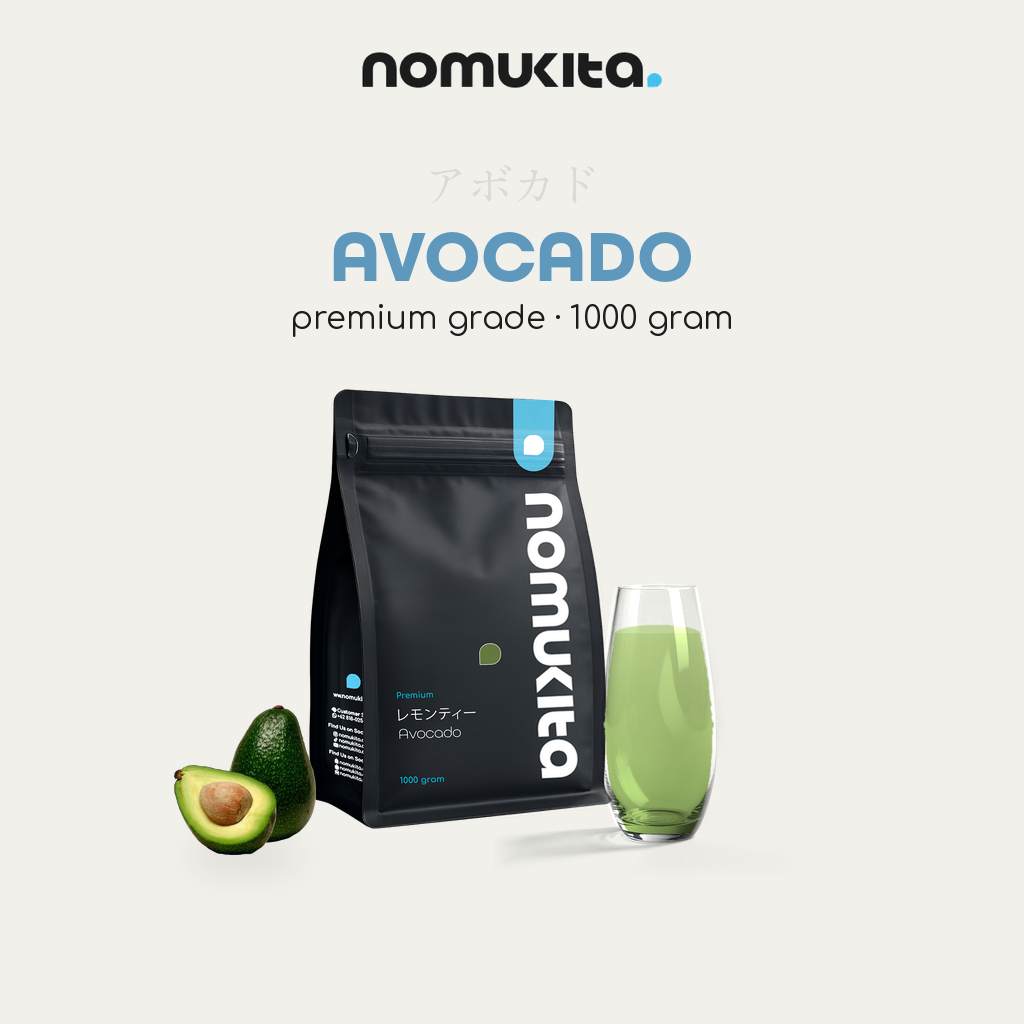
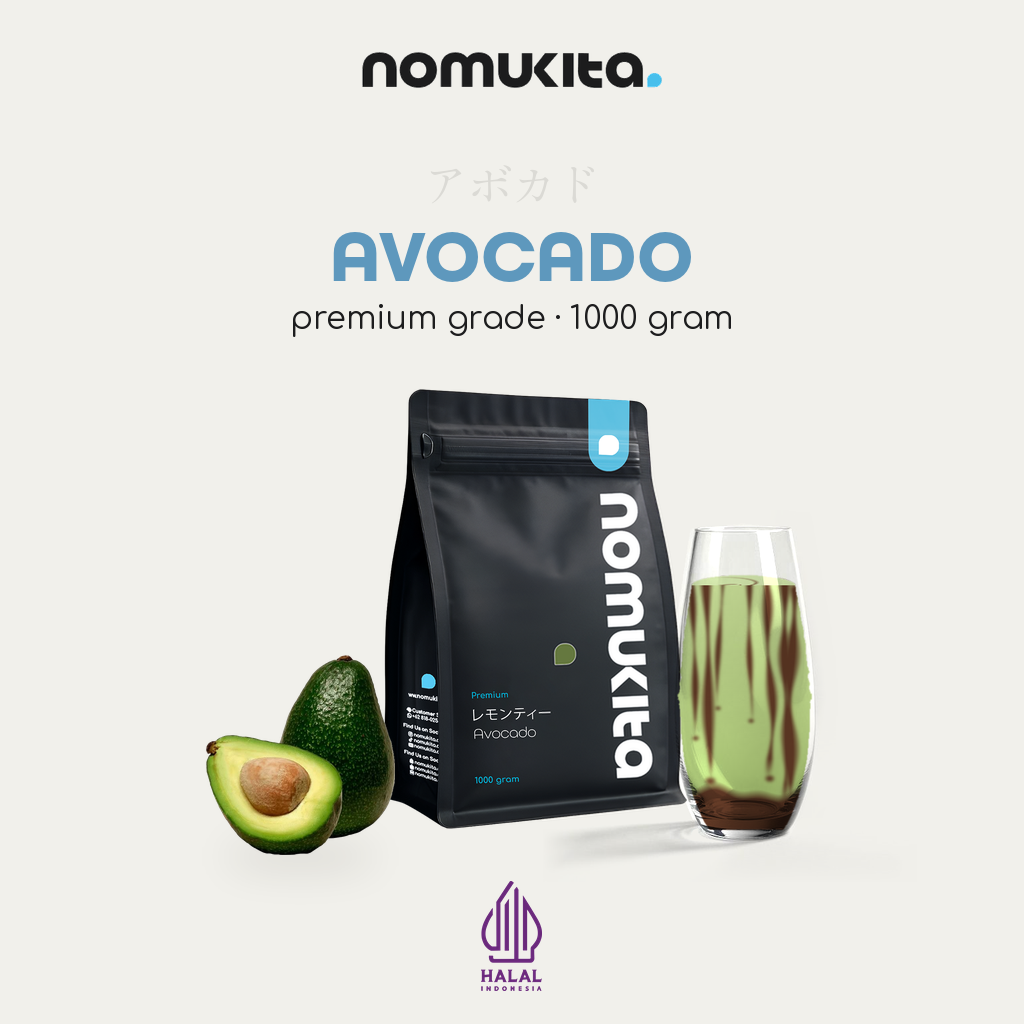
Enlarge the glass and prop, mix a choco avocado, restore the Halal seal
The first pass built the 1000 gram slide from scratch and dropped the Halal
Indonesia seal that every other slide carries; it is back at the same
coordinates as the rest of the set.

The glass goes from 271 to 330 tall and the ingredient prop from 150 to 200,
both of which read as undersized next to a 440 pixel pouch. The whole group
(prop, pouch, glass) is now centred as one unit.

The drink is no longer flat green water. glass.render() takes a recipe over the
liquid geometry, so a product can layer its drink; choco_avocado() pours
chocolate into the foot of the glass, grades avocado green above it, drizzles
syrup down the inner wall and folds a chocolate swirl through the surface. The
runs are seated toward the walls with wandering thickness and a bead at the tip
- even parallel bands read as painted stripes rather than syrup.

Claude-Session: https://claude.ai/code/session_01A4GLsk6vKeeUp3C5p2a7yr

Changed region(s): [[0.1562, 0.375, 0.8125, 0.8438], [0.4688, 0.875, 0.5312, 0.9688]]

diff --git a/nomukita-carousel/glass.py b/nomukita-carousel/glass.py
@@ -84,28 +84,102 @@ def _geometry():
 _RATIO, _L, _R, _CX = _geometry()
 
 
-def render(backdrop, top_rgb, bottom_rgb, surface_rgb):
-    """Composite the filled glass over `backdrop` (an HxWx3 float array the size
-    of the reference image). Returns the blended float array."""
+def liquid_geometry():
+    """Masks and coordinates describing the poured liquid, so a recipe can paint
+    into it (layers, drizzle, a swirl on the surface)."""
     H, W = _RATIO.shape[:2]
     Y, X = np.mgrid[0:H, 0:W]
     Lin, Rin = _L + INSET, _R - INSET
-
     inside = (Y >= TOP) & (Y <= BASE) & (X >= Lin[:, None]) & (X <= Rin[:, None])
     body = inside & (Y >= SURFACE) & (Y <= FLOOR)
     rx = (Rin[SURFACE] - Lin[SURFACE]) / 2
     ry = rx * 0.20
     ell = (((X - _CX[SURFACE]) / rx) ** 2 + ((Y - SURFACE) / ry) ** 2) <= 1
-    liquid = body | ell
+    return dict(Y=Y, X=X, Lin=Lin, Rin=Rin, cx=_CX, rx=rx, ry=ry,
+                surface_ell=ell, body=body, liquid=body | ell,
+                top=SURFACE, floor=FLOOR)
 
-    t = np.clip((Y - SURFACE) / (FLOOR - SURFACE), 0, 1)[..., None]
-    drink = np.array(top_rgb, float) * (1 - t) + np.array(bottom_rgb, float) * t
-    drink = np.where((ell & (Y < SURFACE))[..., None], np.array(surface_rgb, float), drink)
 
-    # feather the liquid edge so it meets the glass wall cleanly
-    a = ndi.gaussian_filter(liquid.astype(float), 0.8)[..., None]
+def render(backdrop, recipe):
+    """Composite the filled glass over `backdrop`, an HxWx3 float array the size
+    of the reference image. `recipe(geom)` returns the liquid colour."""
+    geom = liquid_geometry()
+    drink = recipe(geom)
+    a = ndi.gaussian_filter(geom["liquid"].astype(float), 0.8)[..., None]
     base = backdrop * (1 - a) + drink * a
     return np.clip(base * _RATIO, 0, 255)
+
+
+def plain(top_rgb, bottom_rgb, surface_rgb):
+    """A single colour graded from the surface down to the floor."""
+    def recipe(g):
+        t = np.clip((g["Y"] - g["top"]) / (g["floor"] - g["top"]), 0, 1)[..., None]
+        drink = np.array(top_rgb, float) * (1 - t) + np.array(bottom_rgb, float) * t
+        return np.where((g["surface_ell"] & (g["Y"] < g["top"]))[..., None],
+                        np.array(surface_rgb, float), drink)
+    return recipe
+
+
+def choco_avocado(seed=7):
+    """Jus alpukat cokelat: a chocolate pool in the foot, creamy avocado green
+    above it, and chocolate drizzled down the inside of the glass."""
+    CHOC = np.array([72, 42, 28], float)
+    CHOC_LIGHT = np.array([104, 63, 40], float)
+    GREEN_TOP = np.array([190, 209, 143], float)
+    GREEN_BOT = np.array([150, 176, 100], float)
+    SURF = np.array([203, 220, 165], float)
+
+    def recipe(g):
+        Y, X = g["Y"], g["X"]
+        top, floor = g["top"], g["floor"]
+        rng = np.random.default_rng(seed)
+
+        t = np.clip((Y - top) / (floor - top), 0, 1)[..., None]
+        drink = GREEN_TOP * (1 - t) + GREEN_BOT * t
+
+        # chocolate settled in the foot of the glass, with an uneven meniscus
+        pool = floor - (floor - top) * 0.17
+        wob = 7 * np.sin(X / 26.0 + 1.1) + 4 * np.sin(X / 11.0)
+        edge = np.clip((Y - (pool + wob)) / 14.0, 0, 1)[..., None]
+        drink = drink * (1 - edge) + (CHOC * 0.75 + CHOC_LIGHT * 0.25) * edge
+
+        # Syrup drizzled onto the inner wall before pouring: uneven runs that
+        # cling to the sides of the glass, thick where they start and tapering
+        # into a bead. Even, parallel bands would read as painted stripes.
+        L0, R0 = g["Lin"][top], g["Rin"][top]
+        span = R0 - L0
+        # bunched toward the walls, where the curve of the glass shows them
+        seats = [0.06, 0.15, 0.30, 0.52, 0.72, 0.86, 0.95]
+        drip = np.zeros(Y.shape, float)
+        for i, s in enumerate(seats):
+            x0 = L0 + span * (s + rng.uniform(-0.03, 0.03))
+            amp = rng.uniform(2.5, 6.5)      # syrup runs with gravity, it does not snake
+            per = rng.uniform(80.0, 160.0)
+            pha = rng.uniform(0, 6.28)
+            wide = rng.uniform(6.0, 19.0)
+            start = top - rng.uniform(0, 26)
+            end = top + (floor - top) * rng.uniform(0.30, 0.98)
+            cx = x0 + amp * np.sin(Y / per + pha) + 0.4 * amp * np.sin(Y / (per * 0.31) + pha * 2)
+            run = np.clip((Y - start) / 12.0, 0, 1) * np.clip((end - Y) / 30.0, 0, 1)
+            # thickness wanders along the run, so no two sections match
+            swell = 0.62 + 0.38 * np.sin(Y / rng.uniform(17.0, 34.0) + pha)
+            w = wide * swell * (0.5 + 0.5 * run)
+            band = np.clip(1 - np.abs(X - cx) / np.maximum(w, 1e-6), 0, 1) ** 0.7
+            drip = np.maximum(drip, band * run)
+            bead = np.clip(1 - np.hypot((X - (x0 + amp * np.sin(end / per + pha))) / (wide * 0.85),
+                                        (Y - end) / (wide * 0.62)), 0, 1)
+            drip = np.maximum(drip, bead ** 0.7)
+        drip = ndi.gaussian_filter(drip, 2.2)
+        drip = np.clip(drip * 1.25, 0, 1)[..., None]
+        drink = drink * (1 - drip) + (CHOC_LIGHT * 0.55 + CHOC * 0.45) * drip
+
+        # surface: pale green with a chocolate swirl folded through it
+        ang = np.arctan2(Y - top, (X - g["cx"][top]) * g["ry"] / max(g["rx"], 1e-6))
+        rad = np.hypot((X - g["cx"][top]) / max(g["rx"], 1e-6), (Y - top) / max(g["ry"], 1e-6))
+        swirl = np.clip(1 - np.abs(np.sin(ang * 1.5 + rad * 3.4)) / 0.34, 0, 1) * np.clip(1 - rad, 0, 1)
+        surf = SURF * (1 - swirl[..., None]) + CHOC_LIGHT * swirl[..., None]
+        return np.where((g["surface_ell"] & (Y < top))[..., None], surf, drink)
+    return recipe
 
 
 def bbox():
@@ -113,7 +187,7 @@ def bbox():
     return int(np.floor(_L[TOP:BASE].min())), TOP, int(np.ceil(_R[TOP:BASE].max())), BASE
 
 
-def paste(canvas, left, bottom, height, top_rgb, bottom_rgb, surface_rgb):
+def paste(canvas, left, bottom, height, recipe):
     """Draw the filled glass onto a bone-white PIL canvas so that the glass
     itself lands at `left` with its foot on `bottom` and stands `height` tall."""
     gl, gt, gr, gb = bbox()
@@ -131,7 +205,7 @@ def paste(canvas, left, bottom, height, top_rgb, bottom_rgb, surface_rgb):
     under.paste(region, (0, 0))
     backdrop = np.array(under.resize((W, H), Image.LANCZOS)).astype(float)
 
-    out = render(backdrop, top_rgb, bottom_rgb, surface_rgb)
+    out = render(backdrop, recipe)
     layer = Image.fromarray(out.astype(np.uint8)).resize((tw, th), Image.LANCZOS)
     canvas.paste(layer, (int(round(ox)), int(round(oy))))
     return canvas

diff --git a/nomukita-carousel/render_one.py b/nomukita-carousel/render_one.py
@@ -1,0 +1,66 @@
+"""Slide 1, varian 1000 gram: pouch + gelas berisi minuman + prop bahan."""
+
+from PIL import Image, ImageFont
+import importlib.util, sys
+
+for _n, _p in [('bs', 'build_slides.py'), ('glass', 'glass.py')]:
+    _s = importlib.util.spec_from_file_location(_n, _p)
+    _m = importlib.util.module_from_spec(_s); sys.modules[_n] = _m; _s.loader.exec_module(_m)
+import bs, glass
+
+POUCH_H = 440
+GLASS_H = 330          # naik dari 271 - gelas sebelumnya terbaca terlalu kecil
+PROP_H = 200           # naik dari 150
+POUCH_BOTTOM = 829
+BOTTOM = 855
+GLASS_OVERLAP = 16     # gelas sedikit menutup sisi kanan pouch
+PROP_OVERLAP = 14      # prop sedikit menutup sisi kiri pouch
+
+
+def build(idx, recipe, prop=None, out='slide.png'):
+    p = bs.PRODUCTS[idx]
+    pw = round(POUCH_H * 0.695)
+    gl, gt, gr, gb = glass.bbox()
+    gw = round((gr - gl) * GLASS_H / (gb - gt))
+
+    prop_img = None
+    aw = 0
+    if prop:
+        prop_img = Image.open(prop).convert('RGBA')
+        aw = round(prop_img.width * PROP_H / prop_img.height)
+        prop_img = prop_img.resize((aw, PROP_H), Image.LANCZOS)
+
+    # centre the whole group: prop edge .. pouch .. glass edge
+    x0 = round(512 - (pw + gw - GLASS_OVERLAP - aw + PROP_OVERLAP) / 2)
+
+    c = Image.new('RGBA', (1024, 1024), bs.BG + (255,))
+    c.alpha_composite(Image.open(f'{bs.ASSETS}/logo_nomukita.png').convert('RGBA'), bs.LOGO_XY)
+    bs.draw_text_top(c, p['kanji'], ImageFont.truetype(bs.F_JP, bs.KANJI_SIZE),
+                     bs.KANJI_GREY, 512, bs.KANJI_TOP)
+    h = bs.build_headline(p['head'], bs.HEAD_SIZE, bs.accent(p['head']))
+    c.alpha_composite(h, ((1024 - h.width) // 2, bs.HEAD_TOP))
+    bs.draw_text_top(c, f"{p['series']} grade · 1000 gram",
+                     ImageFont.truetype(bs.F_BODY, bs.SUB_SIZE), bs.CHARCOAL, 512, bs.SUB_TOP)
+
+    bs.place(c, p['p1000'], POUCH_H, left=x0, bottom=POUCH_BOTTOM)
+
+    halal = Image.open(f'{bs.ASSETS}/halal.png').convert('RGBA')
+    halal = halal.crop(halal.getbbox())
+    hw = round(halal.width * bs.HALAL_H / halal.height)
+    c.alpha_composite(halal.resize((hw, bs.HALAL_H), Image.LANCZOS),
+                      ((1024 - hw) // 2, bs.HALAL_TOP))
+
+    flat = Image.new('RGB', (1024, 1024), bs.BG)
+    flat.paste(c, (0, 0), c)
+
+    glass.paste(flat, x0 + pw - GLASS_OVERLAP, BOTTOM, GLASS_H, recipe)
+
+    if prop_img:
+        px = x0 + PROP_OVERLAP - aw
+        tmp = flat.convert('RGBA')
+        bs.contact_shadow(tmp, px, BOTTOM - PROP_H, aw, PROP_H, opacity=46, blur=18)
+        flat = tmp.convert('RGB')
+        flat.paste(prop_img, (px, BOTTOM - PROP_H), prop_img)
+
+    flat.save(out)
+    return out
